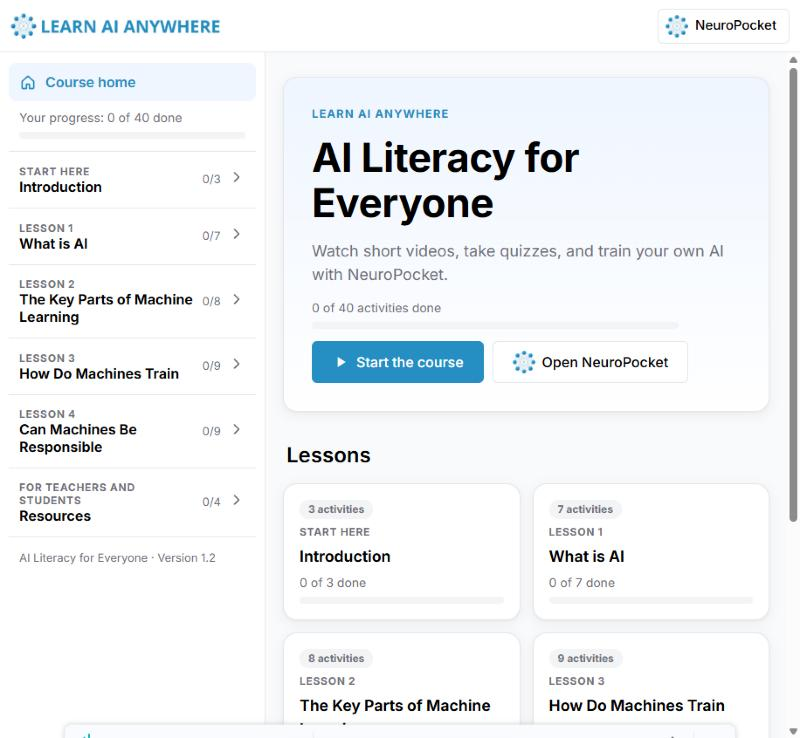
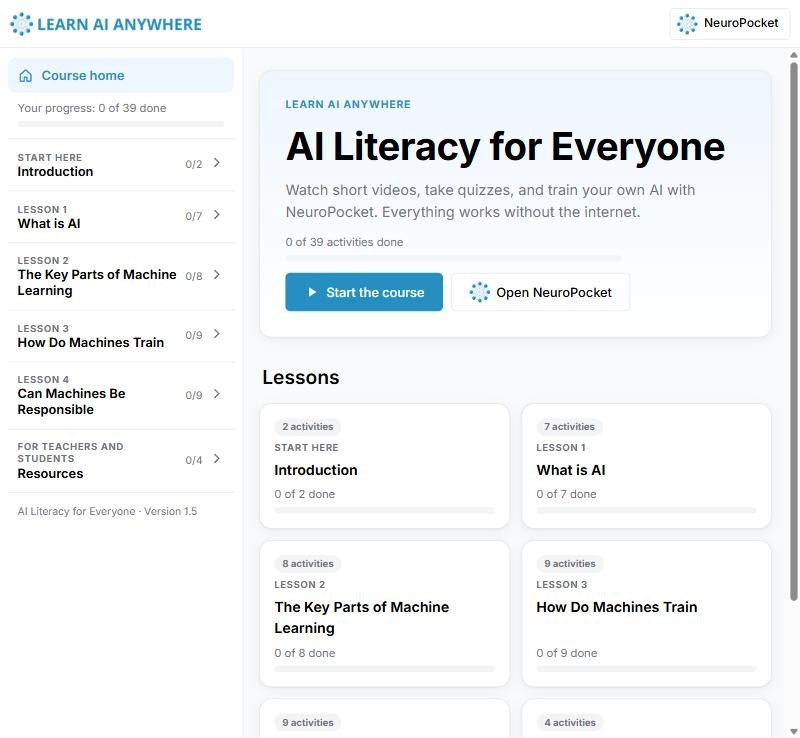
Simplify the course plan and drop the All the files section
Self-paced plans are one step, with a fresh v1.5 START HERE screenshot.
Plan text is one short line per step, with no title, note or caption.
The teach plan ends with the lesson videos instead of the slide picture,
and the All the files section is gone, since the plans already hold
every file.

diff --git a/src/pages/AILiteracyForEveryone.jsx b/src/pages/AILiteracyForEveryone.jsx
@@ -163,67 +163,43 @@ const StepHead = ({ n, children }) => (
   </div>
 );
 
-// The teacher's materials for one package, as rows of download buttons.
-const materialRows = (pkg) => {
-  const r = pkg.resources || {};
-  const english = pkg.lang === 'en';
-  return [
-    { name: 'Teacher guide', what: 'How the course is set up and how each lesson runs. Read this first.', buttons: [file('PDF', r.guidePdf), file('Word', r.guideDocx)] },
-    { name: 'Slides', what: 'For all 4 lessons, each with a recap quiz and then project time.', buttons: [file('PDF', r.slidesPdf), file('PowerPoint', r.slidesPptx)] },
-    { name: 'Worksheet', what: 'A 1-page project that builds across the 4 lessons.', buttons: [file('PDF', r.worksheetPdf), file('Word', r.worksheetDocx)] },
-    { name: 'Worksheet example', what: 'Filled in, to show learners what to aim for.', buttons: [file('PDF', r.examplePdf), file('Word', r.exampleDocx)] },
-    {
-      name: 'Lesson videos',
-      what: `All 25 videos, with captions, in each lesson’s folder. They’re also inside the course download.${english ? '' : ' On YouTube they are in English only.'}`,
-      buttons: [['Open in Google Drive', r.videosFolder && r.videosFolder.url], [english ? 'Watch on YouTube' : 'Watch in English on YouTube', YOUTUBE_URL]],
-    },
-    { name: 'NeuroPocket app', what: 'Learners train their own AI with pictures that come with the app, or their own.', buttons: [['Android app', NEUROPOCKET.android], ['Windows app', NEUROPOCKET.windows], ['Online at neuropocket.com', NEUROPOCKET.online]] },
-  ];
-};
-
-// The plan for one set of answers: a few numbered steps, each with its own
-// buttons, and a closing note that points at the other way of using the course.
-const makePlan = ({ mode, device, pkg, onlineUrl, openFiles }) => {
+// The plan for one set of answers: a few steps, each a heading, one short line
+// and its buttons, beside a picture of what learners will see. Kept short on
+// purpose: the language and the answers are already chosen just above it.
+const makePlan = ({ mode, device, pkg, onlineUrl }) => {
   const r = pkg.resources || {};
   const lang = pkg.name;
-  const guide = { h: 'Read the teacher guide', p: 'How the course is set up, how each lesson splits into lesson time and project time, and what learners should be able to do by the end.', buttons: [file('PDF', r.guidePdf), file('Word', r.guideDocx)] };
-  const slides = { h: 'Get the slides', p: 'One deck for all 4 lessons. Each lesson teaches the ideas, then has a recap quiz, then project time. Show them on a screen or print them.', buttons: [file('PDF', r.slidesPdf), file('PowerPoint', r.slidesPptx)] };
-  const worksheet = { h: 'Print the worksheet', p: 'A 1-page project learners build up over the 4 lessons. Plain paper works too. There is a filled-in example to check against.', buttons: [file('Worksheet (PDF)', r.worksheetPdf), file('Worksheet (Word)', r.worksheetDocx), file('Filled-in example (PDF)', r.examplePdf)] };
-  const neuropocket = { h: 'Put NeuroPocket on one device per group', p: 'Learners train their own AI with pictures that come with the app, or their own if the device has a camera. The apps work offline once installed.', buttons: [['Android app', NEUROPOCKET.android], ['Windows app', NEUROPOCKET.windows], ['Online at neuropocket.com', NEUROPOCKET.online]] };
+  const guide = { h: 'Read the teacher guide', p: 'How the course works and what each lesson covers.', buttons: [file('PDF', r.guidePdf), file('Word', r.guideDocx)] };
+  const slides = { h: 'Get the slides', p: 'One deck for all 4 lessons. Show it or print it.', buttons: [file('PDF', r.slidesPdf), file('PowerPoint', r.slidesPptx)] };
+  const worksheet = { h: 'Print the worksheet', p: 'A 1-page project for the 4 lessons, with a filled-in example.', buttons: [file('Worksheet (PDF)', r.worksheetPdf), file('Worksheet (Word)', r.worksheetDocx), file('Filled-in example (PDF)', r.examplePdf)] };
+  const neuropocket = { h: 'Put NeuroPocket on one device per group', p: 'Learners train their own AI. Works offline once installed.', buttons: [['Android app', NEUROPOCKET.android], ['Windows app', NEUROPOCKET.windows], ['Online at neuropocket.com', NEUROPOCKET.online]] };
+
+  const videos = { h: 'Watch the lesson videos', p: '25 short videos with captions. Watch them to prepare, or play them to the group.', buttons: [
+    ['Open in Google Drive', r.videosFolder && r.videosFolder.url],
+    ['Watch online', onlineUrl],
+    ['Watch on YouTube', pkg.lang === 'en' && YOUTUBE_URL], // English only there
+  ].filter(([, url]) => url) };
 
   if (mode === 'teach') {
     return {
-      title: `Teach it yourself, in ${lang}`,
-      steps: [guide, slides, worksheet, neuropocket, { h: 'Start teaching the first lesson', p: 'Each lesson has a lesson part, taught from the slides, then project time, when learners work on the worksheet and their own AI.' }],
-      pic: { img: slidesImg, alt: 'A slide from the course', what: 'You teach from these slides: one deck for all 4 lessons, each with its recap quiz and project time.' },
-      note: <>Want to see how we teach it? About an hour of lesson videos covers the same ideas. Watch them to prepare, or play them to the group. {onlineUrl && <><a href={onlineUrl}>Watch the videos online</a> or </>}<a href="#materials" onClick={openFiles}>download them</a>.</>,
+      steps: [guide, slides, worksheet, neuropocket, videos],
     };
   }
 
-  const zip = ['Download the course', `${lang} · ${megabytes(pkg.bytes)}`, pkg.url];
-  let get; let open; let what;
+  const zip = ['Download the course', megabytes(pkg.bytes), pkg.url];
+  let get;
   if (device === 'android') {
-    get = { h: 'Install the app on the learners’ phones or tablets', p: <>Open the file, tap <strong>Install</strong>, then choose <strong>{lang}</strong>. The app downloads the course once, while you still have internet. iPhone or iPad? Use it online instead.</>, big: ['Download the app', `${APP_MB} MB`, APP_URL], more: INSTALL_STEPS_URL && <a href={INSTALL_STEPS_URL}>See the install steps with pictures</a> };
-    open = { h: 'Learners open the app and tap Lesson 1', p: 'The videos, games and quizzes come in order. The app remembers where they got to.' };
-    what = 'This is what the app shows: the 4 lessons, with progress saved. The teacher materials are under Resources.';
+    get = { h: 'Install the app on the learners’ phones or tablets', p: <>Install it and choose <strong>{lang}</strong>. On iPhone or iPad? Use it online.</>, big: ['Download the app', `${APP_MB} MB`, APP_URL], more: INSTALL_STEPS_URL && <a href={INSTALL_STEPS_URL}>See the install steps with pictures</a> };
   } else if (device === 'online') {
-    get = { h: 'Share the link with learners', p: 'Nothing to install. Needs internet the whole time.', big: ['Open the course', lang, onlineUrl] };
-    open = { h: 'Learners open the link and start Lesson 1', p: 'The videos, games and quizzes come in order. The browser remembers where they got to.' };
-    what = 'This is what the link opens: the 4 lessons, with progress saved. The teacher materials are under Resources.';
+    get = { h: 'Share the link with learners', p: 'Nothing to install. Needs internet.', big: ['Open the course', null, onlineUrl] };
   } else if (device === 'platform') {
-    get = { h: 'Upload the course to your platform', p: <>Download the ZIP and add it to your course as an HTML package, the way you would add any web activity. Already on Kolibri? The course is in the Kolibri library: see how to add it <a href={KOLIBRI.computer} target="_blank" rel="noopener noreferrer">on a computer</a> or <a href={KOLIBRI.android} target="_blank" rel="noopener noreferrer">on Android</a>.</>, big: zip };
-    open = { h: 'Learners open it from your course page and start Lesson 1', p: 'The videos, games and quizzes come in order, inside your platform.' };
-    what = 'This is what learners see inside your platform: the 4 lessons, with progress saved. The teacher materials are under Resources.';
+    get = { h: 'Upload the course to your platform', p: <>Add the ZIP as an HTML package. On Kolibri? See how: <a href={KOLIBRI.computer} target="_blank" rel="noopener noreferrer">computer</a> · <a href={KOLIBRI.android} target="_blank" rel="noopener noreferrer">Android</a>.</>, big: zip };
   } else {
-    get = { h: 'Download the course to a computer', p: <>Unzip it and open <strong>START HERE</strong>. Copy the folder to other computers with a USB stick.</>, big: zip };
-    open = { h: 'Learners open START HERE and start Lesson 1', p: 'The videos, games and quizzes come in order. It remembers where they got to.' };
-    what = 'This is START HERE, what opens on the computer: the 4 lessons, with progress saved. The teacher materials are under Resources.';
+    get = { h: 'Download the course to a computer', p: <>Unzip it and open <strong>START HERE</strong>.</>, big: zip };
   }
   return {
-    title: `Learners go through it on their own, in ${lang}`,
-    steps: [get, open],
-    pic: { img: startHereImg, alt: 'The START HERE page: the lessons listed on the left, a Start the course button on the right', what },
-    note: <>Want to teach some of it yourself? The teacher guide and slides are in the <a href="#materials" onClick={openFiles}>list at the bottom of this page</a>.</>,
+    steps: [get],
+    pic: { img: startHereImg, alt: 'The START HERE page: the lessons listed on the left, a Start the course button on the right' },
   };
 };
 
@@ -235,12 +211,10 @@ const AILiteracyForEveryone = () => {
   const [device, setDevice] = useState('computer');
   const [trailer, setTrailer] = useState('off'); // 'off' | 'video' | 'embed'
   const [openLesson, setOpenLesson] = useState(null);
-  const [filesOpen, setFilesOpen] = useState(false);
-  const openFiles = () => setFilesOpen(true);
   const pkg = packages.find((p) => p.id === langId) || packages[0];
   const onlineUrl = ONLINE_URL ? ONLINE_URL(pkg.id) : null;
   const devices = DEVICES.filter((d) => !d.online || onlineUrl);
-  const plan = makePlan({ mode, device, pkg, onlineUrl, openFiles });
+  const plan = makePlan({ mode, device, pkg, onlineUrl });
   const askDevice = mode === 'self';
 
   // One language for the whole page: the hero's menu and the one under Get the
@@ -405,16 +379,15 @@ const AILiteracyForEveryone = () => {
           <div className="alfe-card alfe-plan">
             <div className="alfe-plan-text">
               <p className="alfe-eyebrow">Your plan</p>
-              <h3 className="alfe-plan-title">{plan.title}</h3>
               <ol className="alfe-steps">
                 {plan.steps.map((s, i) => (
                   <li key={s.h}>
-                    <span className="alfe-step-small" aria-hidden="true">{i + 1}</span>
+                    {plan.steps.length > 1 && <span className="alfe-step-small" aria-hidden="true">{i + 1}</span>}
                     <div className="alfe-step-body">
                       <h4>{s.h}</h4>
                       <p>{s.p}</p>
                       {s.big && (
-                        <a href={s.big[2]} className="alfe-btn alfe-btn-primary alfe-start" {...linkProps(s.big[2])}><Icon name={device === 'online' ? 'arrow' : 'download'} size={18} />{s.big[0]} <span className="alfe-btn-meta">· {s.big[1]}</span></a>
+                        <a href={s.big[2]} className="alfe-btn alfe-btn-primary alfe-start" {...linkProps(s.big[2])}><Icon name={device === 'online' ? 'arrow' : 'download'} size={18} />{s.big[0]}{s.big[1] && <span className="alfe-btn-meta"> · {s.big[1]}</span>}</a>
                       )}
                       {s.more}
                       {s.buttons && (
@@ -426,65 +399,13 @@ const AILiteracyForEveryone = () => {
                   </li>
                 ))}
               </ol>
-              <p className="alfe-plan-note">{plan.note}</p>
             </div>
-            <figure className="alfe-plan-pic">
-              <div className="alfe-plan-shot"><img src={plan.pic.img} alt={plan.pic.alt} loading="lazy" /></div>
-              <figcaption>{plan.pic.what}</figcaption>
-            </figure>
-          </div>
-        </div>
-      </section>
-
-      {/* All the files, one by one */}
-      <section id="materials" className="alfe-section" aria-labelledby="mat-h">
-        <div className="alfe-wrap alfe-narrow alfe-files">
-          <h2 id="mat-h">All the files, in {pkg.name}</h2>
-          <p className="alfe-section-lead">Every file in the course, one by one, if you’d rather not answer the questions above.</p>
-          <button type="button" className="alfe-btn alfe-btn-outline alfe-start" aria-expanded={filesOpen} aria-controls="alfe-files-all" onClick={() => setFilesOpen((o) => !o)}>
-            <span className={filesOpen ? 'alfe-toggle is-open' : 'alfe-toggle'}><Icon name="chevron" size={18} /></span>{filesOpen ? 'Hide the files' : 'Show all the files'}
-          </button>
-          {filesOpen && <div id="alfe-files-all" className="alfe-files-all">
-
-          <h3>To teach with</h3>
-          <p className="alfe-muted">PDF to print, Word and PowerPoint to edit. These are also inside the course download, under Resources.</p>
-          <div className="alfe-files-list">
-            {materialRows(pkg).map((row) => (
-              <div className="alfe-file-row" key={row.name}>
-                <div className="alfe-file-name">
-                  <strong>{row.name}</strong>
-                  {row.what && <span>{row.what}</span>}
-                </div>
-                <div className="alfe-file-btns">
-                  {row.buttons.map(([label, url]) => <FileButton key={label} label={label} url={url} />)}
-                </div>
-              </div>
-            ))}
-          </div>
-
-          <h3>The course to learn with</h3>
-          <p className="alfe-muted">The videos, games, quizzes and NeuroPocket together. Pick the one that fits the device.</p>
-          <div className="alfe-files-list">
-            <div className="alfe-file-row">
-              <div className="alfe-file-name"><strong>For a computer</strong><span>A ZIP with everything. Unzip it and open START HERE. Windows, Mac or Linux.</span></div>
-              <div className="alfe-file-btns"><FileButton label={`Download · ${megabytes(pkg.bytes)}`} url={pkg.url} /></div>
-            </div>
-            <div className="alfe-file-row">
-              <div className="alfe-file-name"><strong>For Android phones and tablets</strong><span>A small app that downloads the course in your language once, then works offline.</span></div>
-              <div className="alfe-file-btns"><FileButton label={`Download the app · ${APP_MB} MB`} url={APP_URL} />{INSTALL_STEPS_URL && <FileButton label="Install steps" url={INSTALL_STEPS_URL} />}</div>
-            </div>
-            {onlineUrl && (
-              <div className="alfe-file-row">
-                <div className="alfe-file-name"><strong>Online</strong><span>The same course in a browser. Nothing to install, needs internet.</span></div>
-                <div className="alfe-file-btns"><FileButton label={`Open the course in ${pkg.name}`} url={onlineUrl} /></div>
-              </div>
+            {plan.pic && (
+              <figure className="alfe-plan-pic">
+                <div className="alfe-plan-shot"><img src={plan.pic.img} alt={plan.pic.alt} loading="lazy" /></div>
+              </figure>
             )}
-            <div className="alfe-file-row">
-              <div className="alfe-file-name"><strong>On Kolibri</strong><span>The course is in the Kolibri library, for anyone who already uses it. How to add it:</span></div>
-              <div className="alfe-file-btns"><FileButton label="On a computer" url={KOLIBRI.computer} /><FileButton label="On Android" url={KOLIBRI.android} /></div>
-            </div>
           </div>
-          </div>}
         </div>
       </section>
 

diff --git a/src/pages/AILiteracyForEveryone.css b/src/pages/AILiteracyForEveryone.css
@@ -173,8 +173,7 @@
 /* The plan */
 .alfe-plan { border: 2px solid var(--alfe-blue); flex-direction: row; flex-wrap: wrap; gap: 28px 36px; }
 .alfe-plan-text { flex: 1 1 420px; min-width: 0; display: flex; flex-direction: column; gap: 20px; }
-.alfe-plan-title { margin: 0; font-size: 22px; font-weight: 800; line-height: 1.25; }
-.alfe-plan-text .alfe-eyebrow { margin: 0 0 -16px; font-size: 13px; font-weight: 700; }
+.alfe-plan-text .alfe-eyebrow { margin: 0 0 -6px; font-size: 13px; font-weight: 700; }
 .alfe-steps { list-style: none; margin: 0; padding: 0; display: flex; flex-direction: column; gap: 18px; }
 .alfe-steps li { display: flex; gap: 14px; align-items: flex-start; }
 .alfe-step-small {
@@ -185,27 +184,11 @@
 .alfe-step-body h4 { margin: 0; font-size: 17px; font-weight: 700; }
 .alfe-step-body > a:not(.alfe-btn) { font-size: 15px; font-weight: 600; }
 .alfe-btn-meta { font-weight: 500; opacity: 0.9; }
-.alfe-plan-note { background: #F7FBFD; border-radius: 8px; padding: 14px 18px; font-size: 15px; color: #1f2937; }
-.alfe-plan-note a { font-weight: 700; }
 .alfe-plan-pic { flex: 1 1 300px; max-width: 400px; min-width: 0; margin: 0; display: flex; flex-direction: column; gap: 10px; }
 .alfe-plan-shot { border-radius: 8px; overflow: hidden; border: 1px solid var(--alfe-line); background: #F3F4F6; box-shadow: 0 8px 24px rgba(15, 23, 42, 0.12); }
 .alfe-plan-shot img { display: block; width: 100%; height: auto; }
-.alfe-plan-pic figcaption { font-size: 14px; color: var(--alfe-muted); }
 
-/* All the files */
-.alfe-files { display: flex; flex-direction: column; gap: 4px; }
-.alfe-files > .alfe-btn { margin-top: 4px; gap: 8px; }
-.alfe-files .alfe-toggle.is-open { transform: rotate(180deg); }
-.alfe-files-all { display: flex; flex-direction: column; gap: 4px; margin-top: 8px; }
-.alfe-files h2 { margin-bottom: 20px; }
-.alfe-files h3 { margin: 16px 0 0; font-size: 18px; font-weight: 800; }
-.alfe-files > p { margin: 4px 0 0; font-size: 15px; }
-.alfe-files-list { background: #ffffff; border: 1px solid var(--alfe-grey-line); border-radius: 8px; padding: 4px 24px; margin-top: 12px; }
-.alfe-file-row { display: flex; flex-wrap: wrap; align-items: center; gap: 10px 20px; padding: 16px 0; }
-.alfe-file-row + .alfe-file-row { border-top: 1px solid var(--alfe-grey-line); }
-.alfe-file-name { flex: 1 1 300px; min-width: 0; display: flex; flex-direction: column; }
-.alfe-file-name strong { font-size: 16px; }
-.alfe-file-name span { font-size: 14px; color: var(--alfe-muted); }
+/* File buttons in the plan */
 .alfe-file-btns { display: flex; flex-wrap: wrap; gap: 8px; }
 .alfe-file-btn {
   border: 1.5px solid var(--alfe-blue); border-radius: 6px; padding: 9px 14px; min-height: 44px; color: var(--alfe-link);
@@ -234,7 +217,6 @@
   .alfe-lesson-img { flex-basis: 100%; }
   .alfe-card { padding: 20px; }
   .alfe-plan-pic { max-width: none; }
-  .alfe-files-list { padding: 4px 16px; }
   .alfe-lang { width: 100%; }
   .alfe-lang select { flex: 1 1 auto; min-width: 0; }
   .alfe-start { align-self: stretch; }

diff --git a/docs/test-checklist.md b/docs/test-checklist.md
@@ -55,7 +55,7 @@ These are things the code already tells us. Check them first so you don't redisc
 
 ### 1.4 Navigation behaviour
 - [ ] Opening a new page starts at the top, not where you left the previous page.
-- [ ] Links with a `#` (for example the banner's `#download`, the course page's `#get` and `#materials`) scroll to that section.
+- [ ] Links with a `#` (for example the banner's `#download`, the course page's `#get`) scroll to that section.
 - [ ] Browser back and forward buttons work and restore the right page.
 - [ ] Reloading any page (for example `/about`, `/courses/ai-literacy-for-everyone`) loads that page, not a Netlify 404. This checks the `_redirects` catch-all.
 - [ ] Old addresses still work: `/curriculum` and `/curriculum/intro-to-ai` both redirect to the course page. `/curriculum/intro-to-generative-ai` still shows the Gen AI course. These are the links other sites and Kolibri may have.
@@ -140,7 +140,7 @@ This is the page to spend the most time on.
 - [ ] Clicking a row opens it; clicking it again closes it; opening another closes the first (only one open at a time).
 - [ ] The chevron turns when open.
 - [ ] Inside each: a picture of the activity, "Learners will:" with the objectives, and the small tags (Slides, N short videos, activity name, Recap quiz, Worksheet part N).
-- [ ] Video counts: 4, 5, 7, 7 (with the 2 introduction videos that is 25, matching the card above and the files section). Confirm against the Drive folders.
+- [ ] Video counts: 4, 5, 7, 7 (with the 2 introduction videos that is 25, matching the card above). Confirm against the Drive folders.
 - [ ] Objectives match the teacher guide word for word or close to it.
 - [ ] Activity names match the slides: AI or Not game, Train a model in NeuroPocket, Describer Drawer game, Bias challenge in NeuroPocket.
 - [ ] **Keyboard:** Tab to a lesson row, press Enter or Space, it opens. Screen reader users get the open/closed state (the row is a real button with aria-expanded).
@@ -165,70 +165,58 @@ This is the page to spend the most time on.
 
 ### 3.8 The plan card: "I'll teach it"
 Do this once in English, then once in a non-Latin language (Arabic or Urdu) and once in Swahili (Kenya).
-- [ ] Title "Teach it yourself, in English" (changes with the language).
-- [ ] Five steps: 1 Read the teacher guide, 2 Get the slides, 3 Print the worksheet, 4 Put NeuroPocket on one device per group, 5 Start teaching the first lesson.
+- [ ] The card starts with the small "YOUR PLAN" label and no big title. Each step is a heading, one short line and its buttons.
+- [ ] Five steps: 1 Read the teacher guide, 2 Get the slides, 3 Print the worksheet, 4 Put NeuroPocket on one device per group, 5 Watch the lesson videos.
 - [ ] Step 1 buttons PDF and Word download the guide **in the chosen language**. Open each file and check it is the right language and the right document.
 - [ ] Step 2 buttons: "PDF · 15 MB" and "PowerPoint · 95 MB" (sizes shown because they are big). Both download, both are the slides in the chosen language.
 - [ ] Step 3 buttons: Worksheet (PDF), Worksheet (Word), Filled-in example (PDF). All three download in the chosen language.
-- [ ] Step 4 buttons: Android app (APK from the NeuroPocket 1.8.0 release), Windows app (EXE), Online at neuropocket.com (opens in a new tab). Step 4 text says a camera is optional.
-- [ ] Step 5 has no buttons, just text.
-- [ ] The picture on the right is a slide with the caption about teaching from one deck. On a phone it moves under the steps.
-- [ ] The closing note: "Want to see how we teach it? ... Watch the videos online or download them." "Watch the videos online" opens `/course/online/<language>/`. "download them" opens the All the files section further down (it should expand it **and** scroll to it).
+- [ ] Step 4 buttons: Android app (APK from the NeuroPocket 1.8.0 release), Windows app (EXE), Online at neuropocket.com (opens in a new tab). Step 4 text does not mention a camera.
+- [ ] Step 5 text "25 short videos with captions. Watch them to prepare, or play them to the group." Buttons: Open in Google Drive (that language's video folder), Watch online (`/course/online/<language>/`), and Watch on YouTube **only in English**. No other language shows a YouTube button.
+- [ ] There is no picture: the steps use the full width of the card.
+- [ ] There is no closing note under the steps.
 - [ ] No step says how many minutes anything takes (timings are only on the lesson cards).
 - [ ] No step says "students" or "class".
 
 ### 3.9 The plan card: "Learners go through it on their own" → On a computer
-- [ ] Title "Learners go through it on their own, in English".
-- [ ] Step 1 "Download the course to a computer" with the big button "Download the course · English · 119 MB". The size changes per language (French 185 MB, Urdu 202 MB, and so on). The button downloads the ZIP straight away (no new tab).
-- [ ] Step 2 "Learners open START HERE and start Lesson 1".
-- [ ] No third step: the plan ends at step 2 (no "print the worksheet").
-- [ ] The picture is the START HERE screenshot with the caption about the 4 lessons and Resources.
-- [ ] Closing note links to the All the files section and opens it.
+- [ ] No big title, only the "YOUR PLAN" label.
+- [ ] Step 1 "Download the course to a computer", text "Unzip it and open START HERE.", with the big button "Download the course · 116 MB" (no language in the button). The size changes per language (French 185 MB, Urdu 202 MB, and so on). The button downloads the ZIP straight away (no new tab).
+- [ ] The plan is a single step with no step number in front of it (no "Learners open START HERE" step, no "print the worksheet").
+- [ ] The picture is the v1.5 START HERE screenshot (sidebar says Version 1.5, 39 activities), with no caption.
+- [ ] No closing note.
 
 ### 3.10 Plan: Android phone or tablet
 - [ ] Step 1 "Install the app on the learners' phones or tablets" with the big button "Download the app · 3 MB". Downloads the APK from the `app-latest` release.
 - [ ] Under it, "See the install steps with pictures" goes to `/courses/ai-literacy-for-everyone/install-android`.
-- [ ] The text mentions choosing the language inside the app and that iPhone/iPad users should use it online.
-- [ ] Step 2 "Learners open the app and tap Lesson 1".
+- [ ] The text reads "Install it and choose English. On iPhone or iPad? Use it online." (the language name changes).
 
 ### 3.11 Plan: Online
-- [ ] Step 1 "Share the link with learners" with the big button "Open the course · English" (arrow icon, not a download icon). It opens `/course/online/en/`; after switching language it opens that language's folder (for example `/course/online/sw-TZ/`).
-- [ ] The text says nothing to install, needs internet the whole time.
-- [ ] Step 2 as above, and no step 3.
+- [ ] Step 1 "Share the link with learners" with the big button "Open the course" (no language or size, arrow icon, not a download icon). It opens `/course/online/en/`; after switching language it opens that language's folder (for example `/course/online/sw-TZ/`).
+- [ ] The text reads "Nothing to install. Needs internet."
 
 ### 3.12 Plan: Learning platform
-- [ ] Step 1 "Upload the course to your platform" with the big ZIP button and text explaining it is added as an HTML package.
-- [ ] Two Kolibri links, "on a computer" and "on Android", each opening the right Google Doc in a new tab. Check both docs are shared so anyone with the link can view (open them in a private window).
-- [ ] Step 2 as above, and no step 3.
+- [ ] Step 1 "Upload the course to your platform" with the big button "Download the course · 116 MB" and the text "Add the ZIP as an HTML package. On Kolibri? See how: computer · Android."
+- [ ] Two Kolibri links, "computer" and "Android", each opening the right Google Doc in a new tab. Check both docs are shared so anyone with the link can view (open them in a private window).
 
 ### 3.13 Every button, every language (the tedious but important one)
-Switch through all 9 languages and, in the All the files section (3.14), click every button. For each language check:
+Switch through all 9 languages and, in the "I'll teach it" plan, click every button. For each language check:
 - [ ] Teacher guide PDF and Word open and are in that language.
 - [ ] Slides PDF and PowerPoint open and are in that language.
-- [ ] Worksheet PDF and Word, Worksheet example PDF and Word.
+- [ ] Worksheet PDF and Word, Filled-in example PDF.
 - [ ] Each worksheet is 1 page in every language. The guide is 4 pages (5 in Hindi and Urdu) with no heading stranded at the bottom of a page.
-- [ ] The ZIP downloads and its size matches the label.
+- [ ] In each "on their own" plan, the ZIP downloads and its size matches the label.
 - [ ] "Open in Google Drive" opens that language's video folder and the folder is viewable without signing in.
-- [ ] YouTube button: English says "Watch on YouTube"; other languages say "Watch in English on YouTube" and the Lesson videos text adds "On YouTube they are in English only."
 - [ ] Both Swahili versions point at the same guide, slides and worksheet but different video folders. Confirm that is intended.
 - [ ] No button shows as greyed out "Coming soon". If one does, that resource is missing from `course/downloads.json`.
 - [ ] Downloads (ZIP, APK, EXE, Google exports) do **not** open a new tab. Pages (Drive folder, YouTube, Kolibri docs, neuropocket.com) **do** open in a new tab.
+- [ ] There is no "All the files" section any more: after the plan card the page goes straight to Common questions.
 
-### 3.14 All the files section
-- [ ] Heading "All the files, in English" (changes with the language).
-- [ ] Starts collapsed with a "Show all the files" button. Clicking shows everything and the button becomes "Hide the files".
-- [ ] Links from the plan notes ("download them", "list at the bottom of this page") open it and land on it.
-- [ ] "To teach with" rows: Teacher guide, Slides, Worksheet, Worksheet example, Lesson videos, NeuroPocket app.
-- [ ] "The course to learn with" rows: For a computer (ZIP with size), For Android (app · 3 MB + Install steps), Online (Open the course in English), On Kolibri (On a computer, On Android).
-- [ ] On a phone the buttons wrap under the description instead of overflowing sideways.
-
-### 3.15 Common questions
+### 3.14 Common questions
 - [ ] Five questions: Do I need internet to teach it? / Do I need to know about AI already? / Does every learner need a device? / Can one person take it alone? / Can I share or change it?
 - [ ] The device answer says one device per group is enough and the worksheet can be on paper (it must **not** say "no devices at all").
 - [ ] The "alone" answer says one person with one device can do the whole course.
 - [ ] The licence answer links to CC BY-NC-SA in a new tab.
 
-### 3.16 Content accuracy on this page
+### 3.15 Content accuracy on this page
 - [ ] Every number on the page matches reality: 4 lessons, 25 videos, 1-page worksheet, 8 languages, version 1.3 and its date, 3 MB app, ZIP sizes, NeuroPocket 1.8.0.
 - [ ] "About an hour of lesson videos" is right (you measured 51.5 minutes).
 - [ ] Nothing says "kit", "students", "class" or "classroom" where you wanted "course", "learners", "group".
